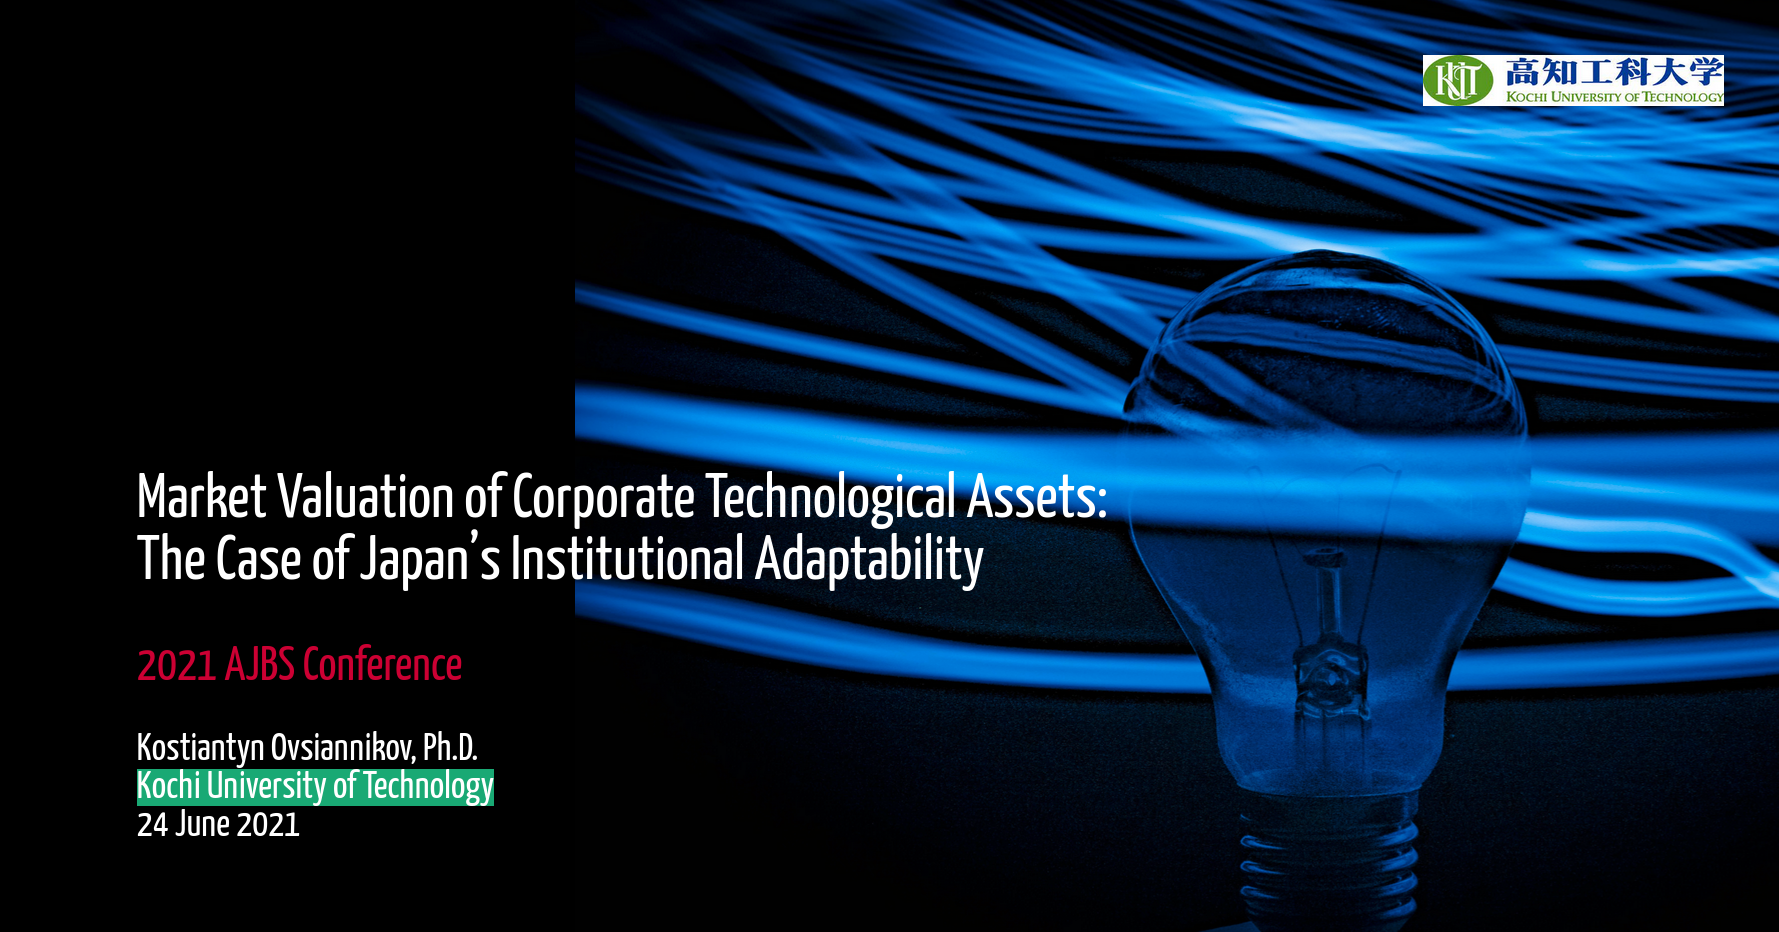
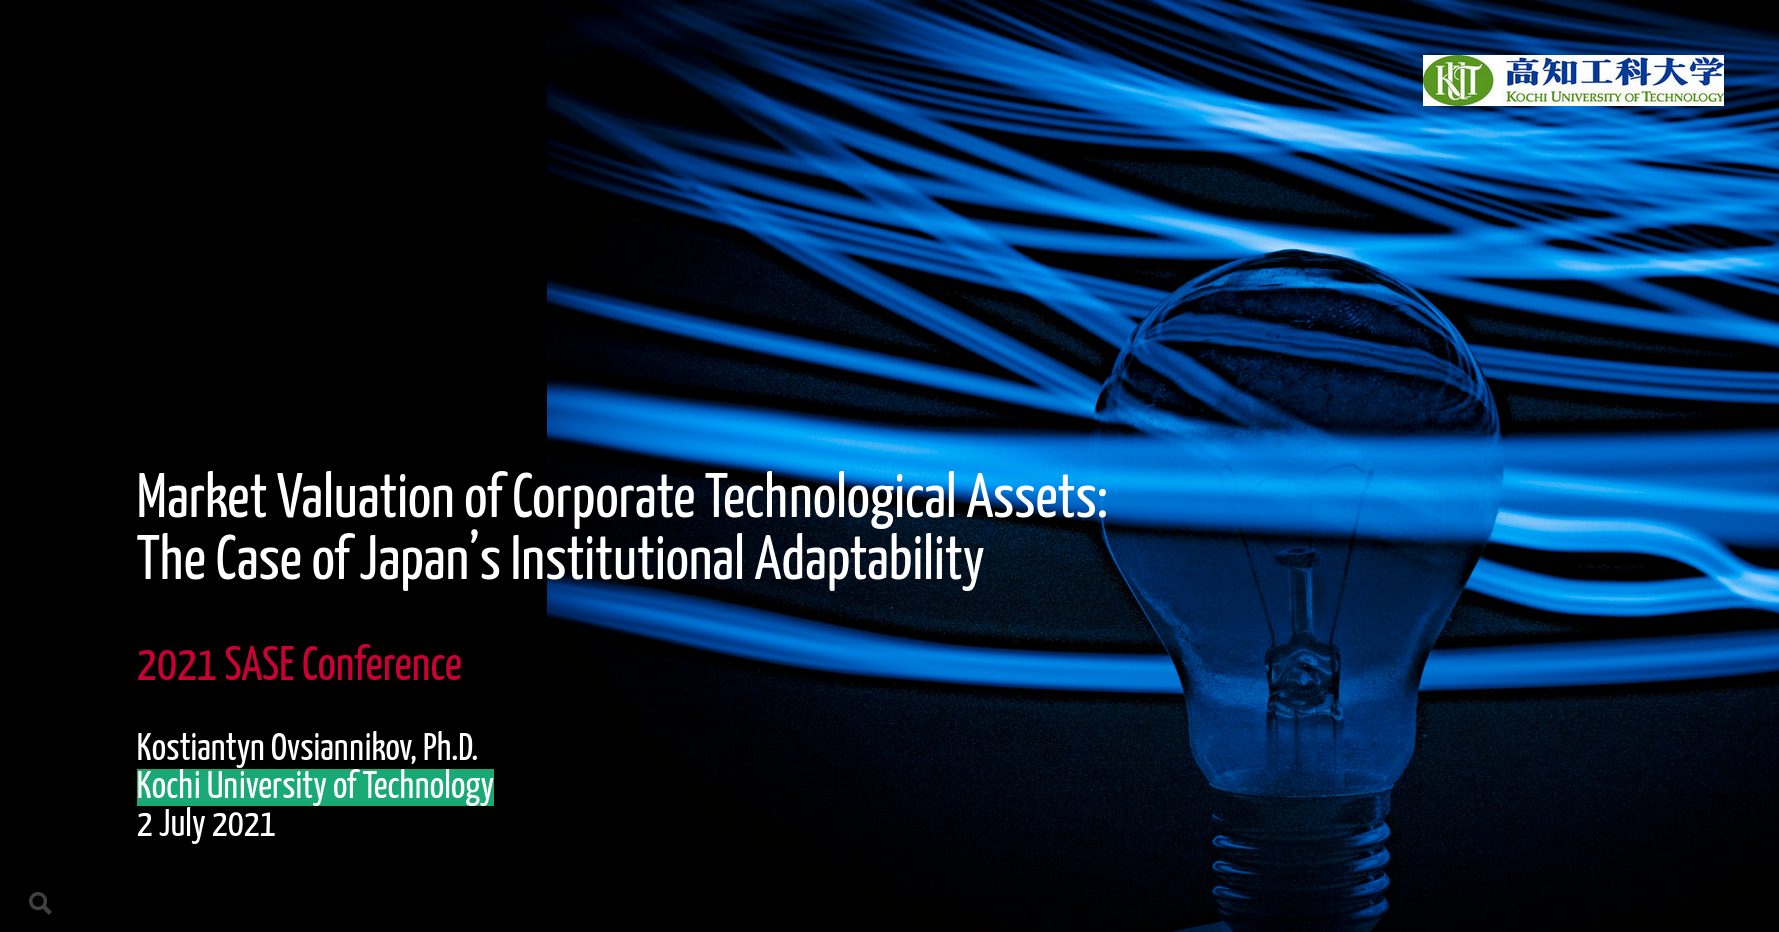
update SASE-2021 presentation

Changed region(s): [[0.3092, 0.0, 1.0, 1.0], [0.1237, 0.6845, 0.2473, 0.7468], [0.0927, 0.8712, 0.1855, 0.9024]]

diff --git a/static/slides/SASE-2021/SASE-2021.html b/static/slides/SASE-2021/SASE-2021.html
@@ -305,8 +305,8 @@ This represents the .white.bg-black[qualitative-market] aspect of innovative pol
 
 &lt;div align="center"&gt;
 
-<div id="htmlwidget-8f3774cc7f9c123f15a7" style="width:80%;height:auto;" class="datatables html-widget"></div>
-<script type="application/json" data-for="htmlwidget-8f3774cc7f9c123f15a7">{"x":{"filter":"none","fillContainer":false,"data":[["Chemical","Electronics","Machinery","Motor","Pharm","Precision","Cumulative"],[6.8678311138,7.2806806075,6.6383261542,6.5610150211,7.5873633189,7.6175217418,6.9049034312],[8.0895653498,8.6624237936,7.8321703889,8.2852152796,8.3353113833,8.9386238219,8.136566725],[7.6374046653,7.2942644412,6.727487592,7.165346061,8.2424995055,7.9291608331,6.9513845274],[4.80625630921429,4.37581515778571,4.5135435005,4.3744336665,5.041140204,4.65233222035714,4.55041489635714],[6.66444544586364,6.67352501436364,6.2538511445,6.39449624881818,7.09608420302273,7.04512988756818,6.44623534965909]],"container":"<table class=\"display\">\n  <thead>\n    <tr>\n      <th> <\/th>\n      <th>1971-1980<\/th>\n      <th>1981-1990<\/th>\n      <th>1991-2000<\/th>\n      <th>2001-2014<\/th>\n      <th>Combined<\/th>\n    <\/tr>\n  <\/thead>\n<\/table>","options":{"pageLength":9,"initComplete":"function(settings, json) {\n$(this.api().table().header()).css({'background-color': '#000', 'color': '#fff'});\n}","columnDefs":[{"targets":1,"render":"function(data, type, row, meta) {\n    return type !== 'display' ? data : DTWidget.formatRound(data, 2, 3, \",\", \".\");\n  }"},{"targets":2,"render":"function(data, type, row, meta) {\n    return type !== 'display' ? data : DTWidget.formatRound(data, 2, 3, \",\", \".\");\n  }"},{"targets":3,"render":"function(data, type, row, meta) {\n    return type !== 'display' ? data : DTWidget.formatRound(data, 2, 3, \",\", \".\");\n  }"},{"targets":4,"render":"function(data, type, row, meta) {\n    return type !== 'display' ? data : DTWidget.formatRound(data, 2, 3, \",\", \".\");\n  }"},{"targets":5,"render":"function(data, type, row, meta) {\n    return type !== 'display' ? data : DTWidget.formatRound(data, 2, 3, \",\", \".\");\n  }"},{"className":"dt-right","targets":[1,2,3,4,5]},{"orderable":false,"targets":0}],"order":[],"autoWidth":false,"orderClasses":false,"lengthMenu":[9,10,25,50,100]}},"evals":["options.initComplete","options.columnDefs.0.render","options.columnDefs.1.render","options.columnDefs.2.render","options.columnDefs.3.render","options.columnDefs.4.render"],"jsHooks":[]}</script>
+<div id="htmlwidget-5ac28eb4c2b4c71c639c" style="width:80%;height:auto;" class="datatables html-widget"></div>
+<script type="application/json" data-for="htmlwidget-5ac28eb4c2b4c71c639c">{"x":{"filter":"none","fillContainer":false,"data":[["Chemical","Electronics","Machinery","Motor","Pharm","Precision","Cumulative"],[6.8678311138,7.2806806075,6.6383261542,6.5610150211,7.5873633189,7.6175217418,6.9049034312],[8.0895653498,8.6624237936,7.8321703889,8.2852152796,8.3353113833,8.9386238219,8.136566725],[7.6374046653,7.2942644412,6.727487592,7.165346061,8.2424995055,7.9291608331,6.9513845274],[4.80625630921429,4.37581515778571,4.5135435005,4.3744336665,5.041140204,4.65233222035714,4.55041489635714],[6.66444544586364,6.67352501436364,6.2538511445,6.39449624881818,7.09608420302273,7.04512988756818,6.44623534965909]],"container":"<table class=\"display\">\n  <thead>\n    <tr>\n      <th> <\/th>\n      <th>1971-1980<\/th>\n      <th>1981-1990<\/th>\n      <th>1991-2000<\/th>\n      <th>2001-2014<\/th>\n      <th>Combined<\/th>\n    <\/tr>\n  <\/thead>\n<\/table>","options":{"pageLength":9,"initComplete":"function(settings, json) {\n$(this.api().table().header()).css({'background-color': '#000', 'color': '#fff'});\n}","columnDefs":[{"targets":1,"render":"function(data, type, row, meta) {\n    return type !== 'display' ? data : DTWidget.formatRound(data, 2, 3, \",\", \".\");\n  }"},{"targets":2,"render":"function(data, type, row, meta) {\n    return type !== 'display' ? data : DTWidget.formatRound(data, 2, 3, \",\", \".\");\n  }"},{"targets":3,"render":"function(data, type, row, meta) {\n    return type !== 'display' ? data : DTWidget.formatRound(data, 2, 3, \",\", \".\");\n  }"},{"targets":4,"render":"function(data, type, row, meta) {\n    return type !== 'display' ? data : DTWidget.formatRound(data, 2, 3, \",\", \".\");\n  }"},{"targets":5,"render":"function(data, type, row, meta) {\n    return type !== 'display' ? data : DTWidget.formatRound(data, 2, 3, \",\", \".\");\n  }"},{"className":"dt-right","targets":[1,2,3,4,5]},{"orderable":false,"targets":0}],"order":[],"autoWidth":false,"orderClasses":false,"lengthMenu":[9,10,25,50,100]}},"evals":["options.initComplete","options.columnDefs.0.render","options.columnDefs.1.render","options.columnDefs.2.render","options.columnDefs.3.render","options.columnDefs.4.render"],"jsHooks":[]}</script>
 &lt;/div&gt;
 ]
 ]
@@ -365,8 +365,8 @@ This goes hand in hand with the importance of patenting activities for these sec
 
 &lt;div align="center"&gt;
 
-<div id="htmlwidget-31f05d107a6ce77bb04f" style="width:80%;height:auto;" class="datatables html-widget"></div>
-<script type="application/json" data-for="htmlwidget-31f05d107a6ce77bb04f">{"x":{"filter":"none","fillContainer":false,"data":[["Chemical","Electronics","Machinery","Motor","Pharm","Precision","Cumulative"],[0.522728819,0.3123068955,0.4514961335,0.435988794,0.581978726,0.350781612,0.383791938],[0.4508416,0.240042963,0.3779378155,0.3795567845,0.5123684495,0.3785006805,0.331692055],[0.3419771845,0.281564448,0.380517602,0.425702542,0.358954486,0.2752460285,0.338913883],[0.549310446,0.456581515,0.515514157,0.501164316,0.503724032,0.4235396695,0.4896631685],[0.4840552475,0.3020817175,0.414529755,0.4362677675,0.503724032,0.3567717515,0.372653685]],"container":"<table class=\"display\">\n  <thead>\n    <tr>\n      <th> <\/th>\n      <th>1971-1980<\/th>\n      <th>1981-1990<\/th>\n      <th>1991-2000<\/th>\n      <th>2001-2014<\/th>\n      <th>Combined<\/th>\n    <\/tr>\n  <\/thead>\n<\/table>","options":{"pageLength":9,"initComplete":"function(settings, json) {\n$(this.api().table().header()).css({'background-color': '#000', 'color': '#fff'});\n}","columnDefs":[{"targets":1,"render":"function(data, type, row, meta) {\n    return type !== 'display' ? data : DTWidget.formatRound(data, 2, 3, \",\", \".\");\n  }"},{"targets":2,"render":"function(data, type, row, meta) {\n    return type !== 'display' ? data : DTWidget.formatRound(data, 2, 3, \",\", \".\");\n  }"},{"targets":3,"render":"function(data, type, row, meta) {\n    return type !== 'display' ? data : DTWidget.formatRound(data, 2, 3, \",\", \".\");\n  }"},{"targets":4,"render":"function(data, type, row, meta) {\n    return type !== 'display' ? data : DTWidget.formatRound(data, 2, 3, \",\", \".\");\n  }"},{"targets":5,"render":"function(data, type, row, meta) {\n    return type !== 'display' ? data : DTWidget.formatRound(data, 2, 3, \",\", \".\");\n  }"},{"className":"dt-right","targets":[1,2,3,4,5]},{"orderable":false,"targets":0}],"order":[],"autoWidth":false,"orderClasses":false,"lengthMenu":[9,10,25,50,100]}},"evals":["options.initComplete","options.columnDefs.0.render","options.columnDefs.1.render","options.columnDefs.2.render","options.columnDefs.3.render","options.columnDefs.4.render"],"jsHooks":[]}</script>
+<div id="htmlwidget-3f826420a0972e9a646c" style="width:80%;height:auto;" class="datatables html-widget"></div>
+<script type="application/json" data-for="htmlwidget-3f826420a0972e9a646c">{"x":{"filter":"none","fillContainer":false,"data":[["Chemical","Electronics","Machinery","Motor","Pharm","Precision","Cumulative"],[0.522728819,0.3123068955,0.4514961335,0.435988794,0.581978726,0.350781612,0.383791938],[0.4508416,0.240042963,0.3779378155,0.3795567845,0.5123684495,0.3785006805,0.331692055],[0.3419771845,0.281564448,0.380517602,0.425702542,0.358954486,0.2752460285,0.338913883],[0.549310446,0.456581515,0.515514157,0.501164316,0.503724032,0.4235396695,0.4896631685],[0.4840552475,0.3020817175,0.414529755,0.4362677675,0.503724032,0.3567717515,0.372653685]],"container":"<table class=\"display\">\n  <thead>\n    <tr>\n      <th> <\/th>\n      <th>1971-1980<\/th>\n      <th>1981-1990<\/th>\n      <th>1991-2000<\/th>\n      <th>2001-2014<\/th>\n      <th>Combined<\/th>\n    <\/tr>\n  <\/thead>\n<\/table>","options":{"pageLength":9,"initComplete":"function(settings, json) {\n$(this.api().table().header()).css({'background-color': '#000', 'color': '#fff'});\n}","columnDefs":[{"targets":1,"render":"function(data, type, row, meta) {\n    return type !== 'display' ? data : DTWidget.formatRound(data, 2, 3, \",\", \".\");\n  }"},{"targets":2,"render":"function(data, type, row, meta) {\n    return type !== 'display' ? data : DTWidget.formatRound(data, 2, 3, \",\", \".\");\n  }"},{"targets":3,"render":"function(data, type, row, meta) {\n    return type !== 'display' ? data : DTWidget.formatRound(data, 2, 3, \",\", \".\");\n  }"},{"targets":4,"render":"function(data, type, row, meta) {\n    return type !== 'display' ? data : DTWidget.formatRound(data, 2, 3, \",\", \".\");\n  }"},{"targets":5,"render":"function(data, type, row, meta) {\n    return type !== 'display' ? data : DTWidget.formatRound(data, 2, 3, \",\", \".\");\n  }"},{"className":"dt-right","targets":[1,2,3,4,5]},{"orderable":false,"targets":0}],"order":[],"autoWidth":false,"orderClasses":false,"lengthMenu":[9,10,25,50,100]}},"evals":["options.initComplete","options.columnDefs.0.render","options.columnDefs.1.render","options.columnDefs.2.render","options.columnDefs.3.render","options.columnDefs.4.render"],"jsHooks":[]}</script>
 &lt;/div&gt;
 ]
 ]

diff --git a/static/slides/SASE-2021/rutgers-new.css b/static/slides/SASE-2021/rutgers-new.css
@@ -115,7 +115,7 @@ thead, tfoot, tr:nth-child(even) { background: none; }
 /* Add image and change bg color */
 .title-slide {
   background-image: url(assets/img/Techno.jpg);
-  background-position: 300% 50%;
+  background-position: 200% 50%;
   background-size: 1100px;
   background-color: #000000;
  /* padding-left: 100px;  /* delete this for 4:3 aspect ratio */

diff --git a/content/event/SASE-2021/index.md b/content/event/SASE-2021/index.md
@@ -7,8 +7,8 @@ address:
 
 all_day: true
 authors: []
-date: "2021-06-24T13:00:00Z"
-date_end: "2021-06-25T15:00:00Z"
+date: "2021-07-02T13:00:00Z"
+date_end: "2021-07-05T15:00:00Z"
 event: 2021 SASE Conference. "After Covid? Critical Conjunctures and Contingent Pathways of Contemporary Capitalism"
 event_url: https://sase.org/event/2021-sase-conference
 featured: false
@@ -20,7 +20,7 @@ location: online
 math: true
 projects:
 - market-innovation
-publishDate: "2021-06-22T00:00:00Z"
+publishDate: "2021-07-01T00:00:00Z"
 slides: []
 summary: Presentation made at 2021 SASE Conference
 tags: []
